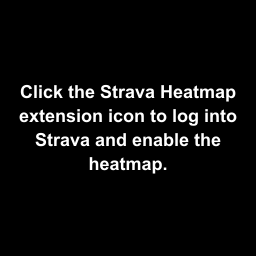
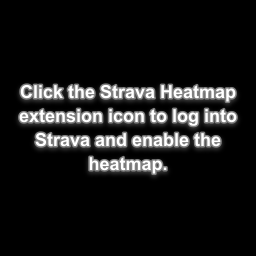
Use border and dropshadow

Changed region(s): [[0.0625, 0.3125, 0.9375, 0.6875]]

diff --git a/src/clients/common/layers.js b/src/clients/common/layers.js
@@ -211,7 +211,7 @@ function getLayerConfig(
 // and lets the client match tiles to their palette (see colors.css)
 function getTileTemplate(activity, color, timestamp, authenticated, version, legacy, period) {
   if (!authenticated) {
-    return `https://raw.githubusercontent.com/tjasz/strava-heatmap-extension/refs/tags/v${version}/assets/heatmap-fallback-grayscale.png?v=1&${COLOR_PARAM}=${color}&z={z}&x={x}&y={y}`;
+    return `https://raw.githubusercontent.com/tjasz/strava-heatmap-extension/refs/heads/caltopo/assets/heatmap-fallback-grayscale.png?v=3&${COLOR_PARAM}=${color}&z={z}&x={x}&y={y}`;
   }
   if (period === 'weekly') {
     const colormap = legacy ? LEGACY_COLORS[color.replace(/_dark$/, '')] : 'grayscale';

diff --git a/src/clients/common/gradient-tiles.js b/src/clients/common/gradient-tiles.js
@@ -37,7 +37,7 @@ function getColorRamp(url, recolorPalettes) {
   if (typeof url !== 'string') return null;
 
   // Fallback images use the canvas path even on clients with CSS palettes.
-  const fallback = /^https:\/\/raw\.githubusercontent\.com\/tjasz\/strava-heatmap-extension\/refs\/(?:tags|heads)\/[^/]+\/assets\/heatmap-fallback-grayscale\.png(?:[?#]|$)/.test(url);
+  const fallback = /^https:\/\/raw\.githubusercontent\.com\/tjasz\/strava-heatmap-extension\/refs\/(?:tags|heads)\/[^?#]+\/assets\/heatmap-fallback-grayscale\.png(?:[?#]|$)/.test(url);
   if (
     !fallback && (
       !recolorPalettes ||

diff --git a/CHANGELOG.md b/CHANGELOG.md
@@ -19,7 +19,7 @@ Layer Configuration:
 Other improvements:
 - Switch defaults to Strava's light heatmap palettes for better visibility on light backgrounds.
 - Improve reliability of weekly heatmap layers.
-- Color the logged-out sign-in message with the layer's palette or custom gradient.
+- Color the logged-out sign-in message with the layer's palette or custom gradient, with a mid-intensity text outline and blurred dark-gray drop shadow for contrast.
 
 ### `0.15.2` (2026-11-03)
 
